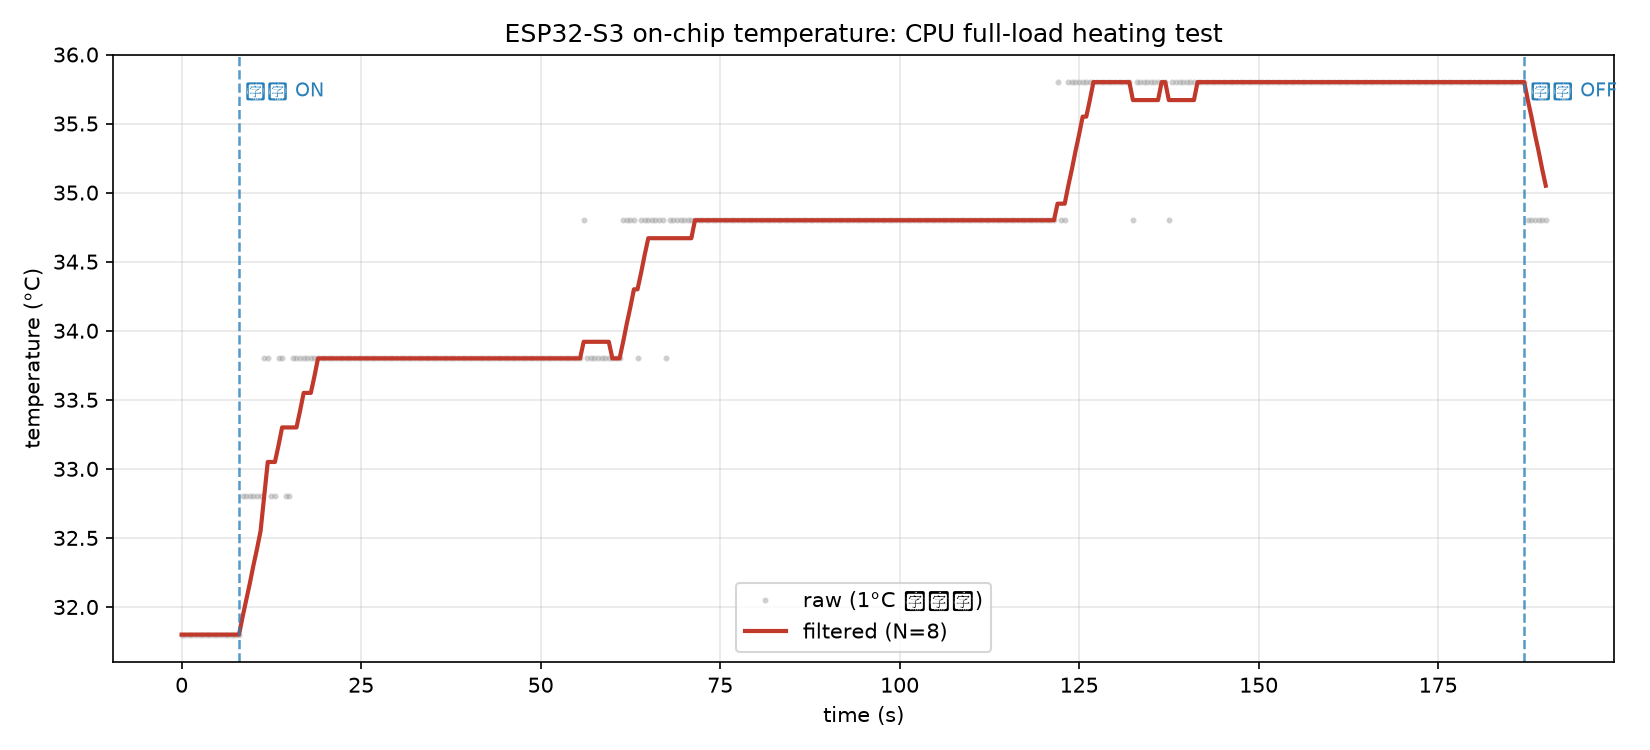
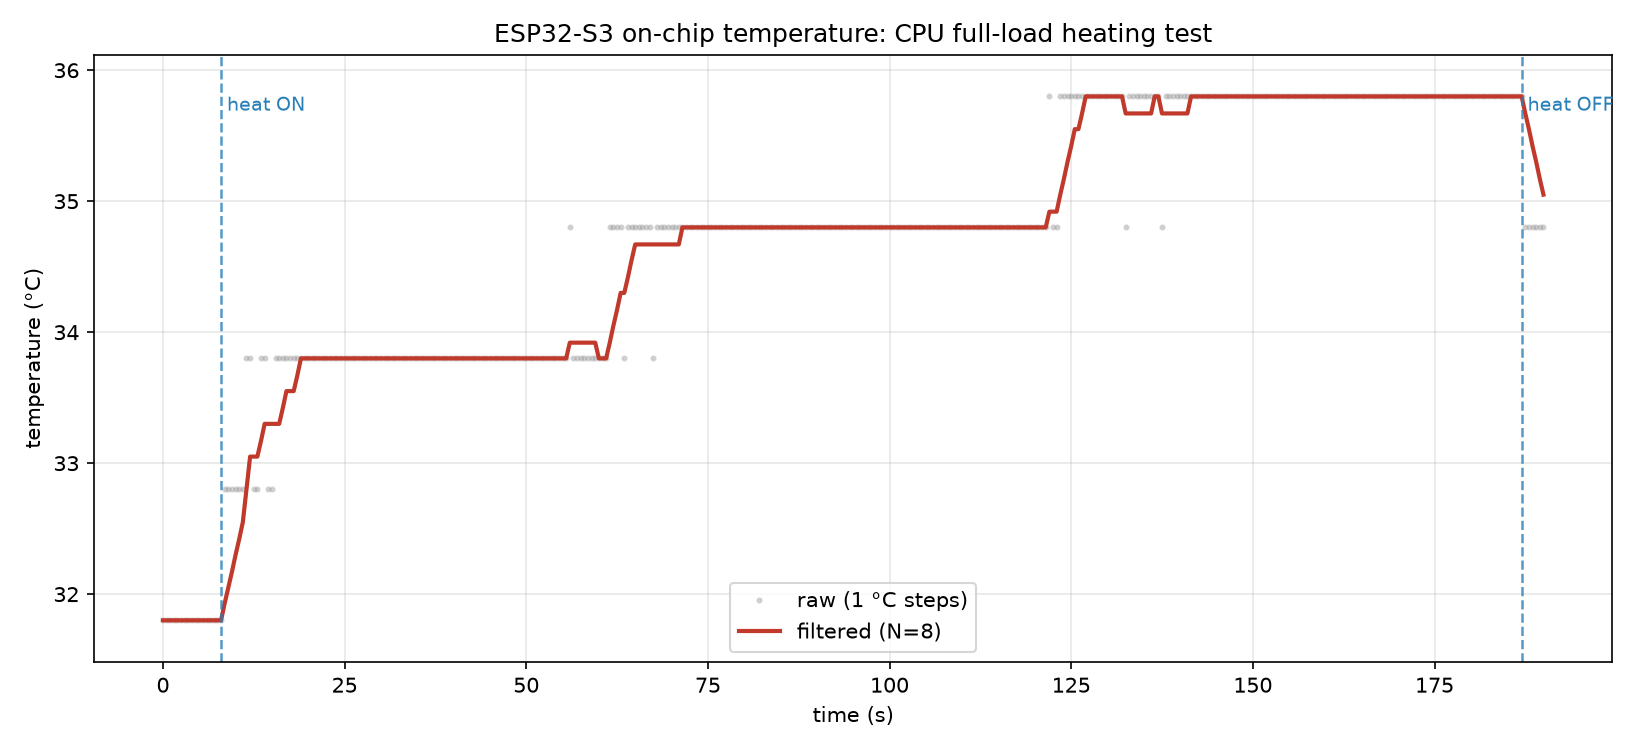
fix: 绘图标签改英文、修正起点裁切；补 tools/requirements.txt

diff --git a/tools/plot_stage0.py b/tools/plot_stage0.py
@@ -74,18 +74,29 @@ def main():
     edges = [i for i in range(1, len(heat)) if heat[i] != heat[i - 1]]
 
     fig, ax = plt.subplots(figsize=(11, 5))
+    ax.plot(t, raw, ".", ms=4, alpha=.35, color="#999999", label="raw (1 °C steps)")
+    ax.plot(t, fil, "-", lw=2, color="#c0392b", label="filtered (N=8)")
+    
+    """
     ax.plot(t, raw, ".", ms=4, alpha=.35, color="#999999", label="raw (1°C 分辨率)")
     ax.plot(t, fil, "-", lw=2, color="#c0392b", label="filtered (N=8)")
+    """
 
     ymax = max(raw + fil)
     for i in edges:
         ax.axvline(t[i], color="#2980b9", ls="--", lw=1.2, alpha=.8)
+
+        ax.text(t[i], ymax, " heat ON" if heat[i] else " heat OFF",
+                fontsize=9, color="#2980b9", va="top")
+        """
         ax.text(t[i], ymax, " 加热 ON" if heat[i] else " 加热 OFF",
                 fontsize=9, color="#2980b9", va="top")
+        """
 
     ax.set_xlabel("time (s)")
     ax.set_ylabel("temperature (°C)")
     ax.set_title("ESP32-S3 on-chip temperature: CPU full-load heating test")
+    ax.margins(y=0.08)
     ax.grid(alpha=.3)
     ax.legend()
     fig.tight_layout()
